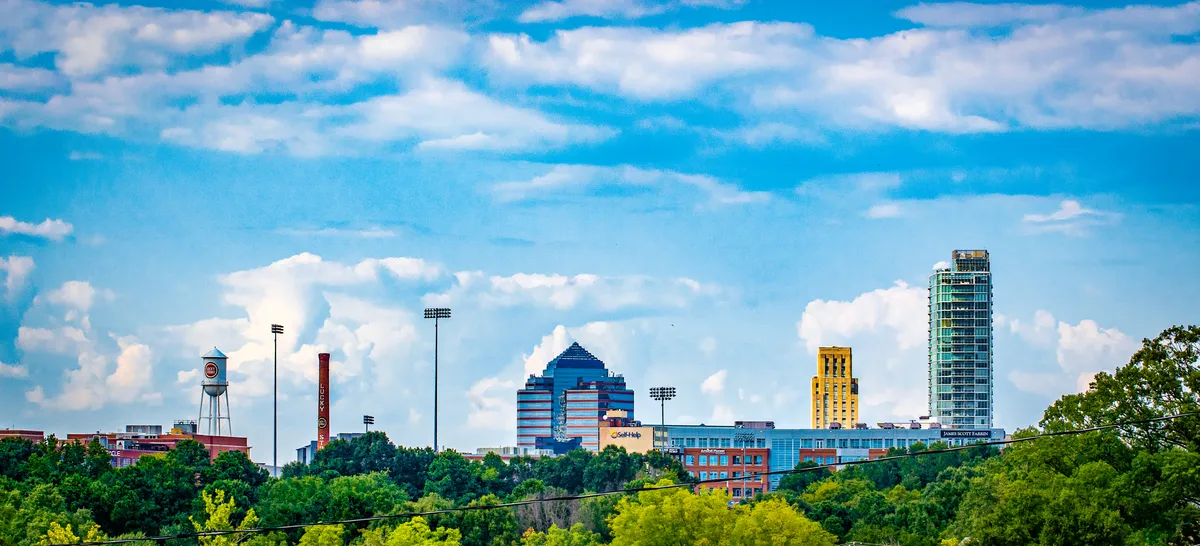
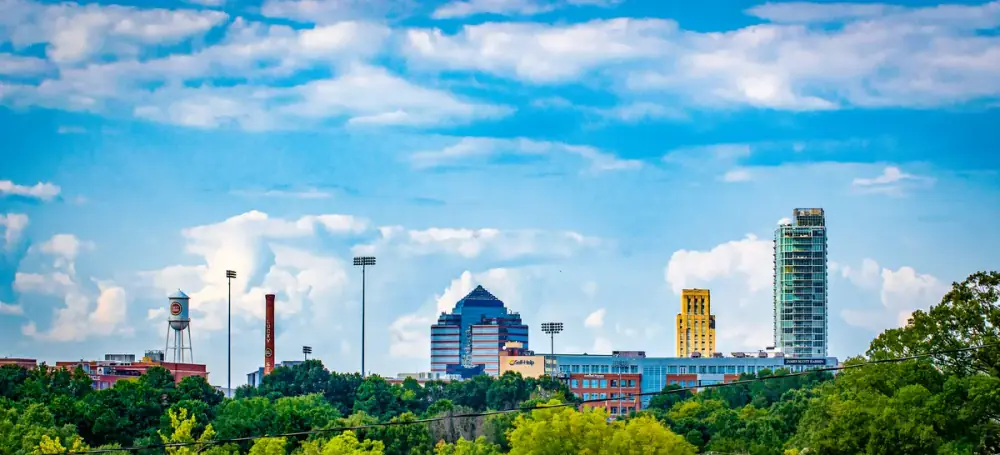
Perf & a11y: code-split routes, cache headers, WCAG contrast fixes
- Route-level React.lazy drops main bundle 645KB → 50KB
- Netlify _headers: 1yr immutable for /assets/*, revalidate HTML
- Defer gtag to idle so it doesn't block LCP
- Compress city heroes (~50% smaller) and shrink pexels hero w=1920 → w=1200 with fetchPriority high
- Darken burnt-orange / deep-orange to pass WCAG AA on white text
- Fix translucent breadcrumb bg and text-cream/60 that failed contrast (2.03:1)
- Swap text-burnt-orange → text-deep-orange on light-bg links (was 4.15, needs 4.5)
- Replace bg-white/20 tel CTA with solid-border variant
- Vite: sourcemap: 'hidden' so BP audit passes without leaking maps
- Drop the inline-css step (caused unused-css-rules flags) — ship external CSS
- Add throwaway scripts for compression and lighthouse summary/detail

diff --git a/src/App.tsx b/src/App.tsx
@@ -1,24 +1,28 @@
+import { lazy, Suspense } from 'react';
 import { BrowserRouter as Router, Routes, Route, Navigate } from 'react-router-dom';
 import { usePageTracking } from './hooks/usePageTracking';
 import { useScrollToTop } from './hooks/useScrollToTop';
 import Header from './components/Header';
 import Footer from './components/Footer';
+
+// Homepage is eagerly imported so the above-fold hero renders without a chunk round-trip.
 import HomePage from './pages/HomePage';
-import ServicesPage from './pages/ServicesPage';
-import TestimonialsPage from './pages/TestimonialsPage';
-import AboutPage from './pages/AboutPage';
-import TeamPage from './pages/TeamPage';
-import OurWorkPage from './pages/OurWorkPage';
-import BlogPage from './pages/BlogPage';
-import BlogPostPage from './pages/BlogPostPage';
-import FreeWebsitePlanPage from './pages/FreeWebsitePlanPage';
-import PricingPage from './pages/PricingPage';
-import RaleighPage from './pages/RaleighPage';
-import ServiceLandingPage from './pages/ServiceLandingPage';
-import CityLandingPage from './pages/CityLandingPage';
-import NotFoundPage from './pages/NotFoundPage';
-import IndustryPage from './pages/IndustryPage';
-import ServiceLocationPage2 from './pages/ServiceLocationPage2';
+
+const ServicesPage = lazy(() => import('./pages/ServicesPage'));
+const TestimonialsPage = lazy(() => import('./pages/TestimonialsPage'));
+const AboutPage = lazy(() => import('./pages/AboutPage'));
+const TeamPage = lazy(() => import('./pages/TeamPage'));
+const OurWorkPage = lazy(() => import('./pages/OurWorkPage'));
+const BlogPage = lazy(() => import('./pages/BlogPage'));
+const BlogPostPage = lazy(() => import('./pages/BlogPostPage'));
+const FreeWebsitePlanPage = lazy(() => import('./pages/FreeWebsitePlanPage'));
+const PricingPage = lazy(() => import('./pages/PricingPage'));
+const RaleighPage = lazy(() => import('./pages/RaleighPage'));
+const ServiceLandingPage = lazy(() => import('./pages/ServiceLandingPage'));
+const CityLandingPage = lazy(() => import('./pages/CityLandingPage'));
+const NotFoundPage = lazy(() => import('./pages/NotFoundPage'));
+const IndustryPage = lazy(() => import('./pages/IndustryPage'));
+const ServiceLocationPage2 = lazy(() => import('./pages/ServiceLocationPage2'));
 
 function PageTracker() {
   usePageTracking();
@@ -30,6 +34,7 @@ function App() {
   return (
     <Router>
       <PageTracker />
+      <Suspense fallback={<div className="min-h-screen" />}>
       <Routes>
         {/* Landing page route without header/footer for maximum conversions */}
         <Route path="/free-website-plan" element={<FreeWebsitePlanPage />} />
@@ -190,6 +195,7 @@ function App() {
           }
         />
       </Routes>
+      </Suspense>
     </Router>
   );
 }

diff --git a/src/pages/ServiceLocationPage2.tsx b/src/pages/ServiceLocationPage2.tsx
@@ -68,9 +68,9 @@ export default function ServiceLocationPage2() {
 
       <div className="pt-20">
         {/* Breadcrumb */}
-        <div className="bg-navy-blue/50 border-b border-white/10">
+        <div className="bg-dark-navy border-b border-white/10">
           <div className="container mx-auto px-4 sm:px-6 lg:px-8 py-3">
-            <nav className="flex items-center gap-2 text-sm text-cream/60 flex-wrap" aria-label="Breadcrumb">
+            <nav className="flex items-center gap-2 text-sm text-slate-300 flex-wrap" aria-label="Breadcrumb">
               <Link to="/" className="hover:text-white transition-colors">Home</Link>
               <ChevronRight size={14} />
               <Link to={`/${page.industryParentSlug}`} className="hover:text-white transition-colors">
@@ -188,7 +188,7 @@ export default function ServiceLocationPage2() {
                 </p>
                 <Link
                   to={`/${page.industryParentSlug}`}
-                  className="inline-flex items-center gap-2 text-burnt-orange font-semibold hover:text-deep-orange transition-colors"
+                  className="inline-flex items-center gap-2 text-deep-orange font-semibold hover:text-burnt-orange transition-colors"
                 >
                   {page.industry} {page.service} — How We Do It
                   <ArrowRight size={18} />
@@ -246,7 +246,7 @@ export default function ServiceLocationPage2() {
             <div className="text-center mt-10">
               <Link
                 to={`/${page.locationParentSlug}`}
-                className="inline-flex items-center gap-2 text-burnt-orange font-semibold hover:text-deep-orange transition-colors"
+                className="inline-flex items-center gap-2 text-deep-orange font-semibold hover:text-burnt-orange transition-colors"
               >
                 <MapPin size={18} />
                 View all services in {page.city}
@@ -316,7 +316,7 @@ export default function ServiceLocationPage2() {
               </Link>
               <a
                 href={`tel:${BUSINESS.phoneTel}`}
-                className="inline-flex items-center justify-center gap-2 bg-white/20 border border-white/30 text-white px-8 py-4 rounded-xl font-bold text-lg hover:bg-white/30 transition-all"
+                className="inline-flex items-center justify-center gap-2 border-2 border-white text-white px-8 py-4 rounded-xl font-bold text-lg hover:bg-white hover:text-burnt-orange transition-all"
               >
                 Call {BUSINESS.phoneDisplay}
               </a>

diff --git a/src/pages/IndustryPage.tsx b/src/pages/IndustryPage.tsx
@@ -65,9 +65,9 @@ export default function IndustryPage() {
 
       <div className="pt-20">
         {/* Breadcrumb — industry-silo aware */}
-        <div className="bg-navy-blue/50 border-b border-white/10">
+        <div className="bg-dark-navy border-b border-white/10">
           <div className="container mx-auto px-4 sm:px-6 lg:px-8 py-3">
-            <nav className="flex items-center gap-2 text-sm text-cream/60" aria-label="Breadcrumb">
+            <nav className="flex items-center gap-2 text-sm text-slate-300" aria-label="Breadcrumb">
               <Link to="/" className="hover:text-white transition-colors">Home</Link>
               {page.slug.includes('/') && (() => {
                 const industry = page.slug.split('/')[0];
@@ -109,7 +109,7 @@ export default function IndustryPage() {
                 </Link>
                 <a
                   href={`tel:${BUSINESS.phoneTel}`}
-                  className="inline-flex items-center justify-center gap-2 bg-white/10 border border-white/20 text-white px-8 py-4 rounded-xl font-bold text-lg hover:bg-white/20 transition-all"
+                  className="inline-flex items-center justify-center gap-2 border-2 border-white text-white px-8 py-4 rounded-xl font-bold text-lg hover:bg-white hover:text-navy-blue transition-all"
                 >
                   Call {BUSINESS.phoneDisplay}
                 </a>
@@ -248,7 +248,7 @@ export default function IndustryPage() {
               </Link>
               <a
                 href={`tel:${BUSINESS.phoneTel}`}
-                className="inline-flex items-center justify-center gap-2 bg-white/20 border border-white/30 text-white px-8 py-4 rounded-xl font-bold text-lg hover:bg-white/30 transition-all"
+                className="inline-flex items-center justify-center gap-2 border-2 border-white text-white px-8 py-4 rounded-xl font-bold text-lg hover:bg-white hover:text-burnt-orange transition-all"
               >
                 Call {BUSINESS.phoneDisplay}
               </a>

diff --git a/index.html b/index.html
@@ -11,13 +11,23 @@
     <meta name="apple-mobile-web-app-capable" content="yes" />
     <meta name="apple-mobile-web-app-status-bar-style" content="default" />
     <meta name="apple-mobile-web-app-title" content="Figgle Media" />
-    <!-- Google tag (gtag.js) -->
-    <script async src="https://www.googletagmanager.com/gtag/js?id=G-WZKXG2GY6E"></script>
+    <!-- Google tag (gtag.js) — deferred until idle so it doesn't block LCP -->
     <script>
       window.dataLayer = window.dataLayer || [];
       function gtag(){dataLayer.push(arguments);}
       gtag('js', new Date());
       gtag('config', 'G-WZKXG2GY6E');
+      function __loadGtag(){
+        var s = document.createElement('script');
+        s.async = true;
+        s.src = 'https://www.googletagmanager.com/gtag/js?id=G-WZKXG2GY6E';
+        document.head.appendChild(s);
+      }
+      if ('requestIdleCallback' in window) {
+        requestIdleCallback(__loadGtag, { timeout: 4000 });
+      } else {
+        window.addEventListener('load', function(){ setTimeout(__loadGtag, 2000); });
+      }
     </script>
     <title>Figgle Media — Web Design & SEO for North Carolina Contractors</title>
     <meta

diff --git a/src/pages/LocationHubPage.tsx b/src/pages/LocationHubPage.tsx
@@ -55,9 +55,9 @@ export default function LocationHubPage() {
 
       <div className="pt-20">
         {/* Breadcrumb */}
-        <div className="bg-navy-blue/50 border-b border-white/10">
+        <div className="bg-dark-navy border-b border-white/10">
           <div className="container mx-auto px-4 sm:px-6 lg:px-8 py-3">
-            <nav className="flex items-center gap-2 text-sm text-cream/60" aria-label="Breadcrumb">
+            <nav className="flex items-center gap-2 text-sm text-slate-300" aria-label="Breadcrumb">
               <Link to="/" className="hover:text-white transition-colors">Home</Link>
               <ChevronRight size={14} />
               <span className="text-white">{page.city} Web Design</span>

diff --git a/src/components/ui/Hero.tsx b/src/components/ui/Hero.tsx
@@ -19,11 +19,12 @@ export default function Hero() {
       {/* Background image with overlay */}
       <div className="absolute inset-0">
         <img
-          src="https://images.pexels.com/photos/4311990/pexels-photo-4311990.jpeg?auto=compress&cs=tinysrgb&w=1920"
+          src="https://images.pexels.com/photos/4311990/pexels-photo-4311990.jpeg?auto=compress&cs=tinysrgb&w=1200"
           alt=""
           className="w-full h-full object-cover opacity-30"
           loading="eager"
           decoding="async"
+          fetchPriority="high"
         />
         <div className="absolute inset-0 bg-gradient-to-br from-navy-blue/95 via-navy-blue/85 to-navy/80"></div>
       </div>

diff --git a/tailwind.config.js b/tailwind.config.js
@@ -5,8 +5,9 @@ export default {
     extend: {
       colors: {
         // ── BRAND (kept) ───────────────────────────────
-        'burnt-orange': '#FF6B2C',
-        'deep-orange': '#E85D04',
+        // Darkened from #FF6B2C / #E85D04 so white text meets WCAG AA (≥4.5:1)
+        'burnt-orange': '#C94818',
+        'deep-orange': '#A83A00',
         'navy-blue': '#0A1628',
         'dark-navy': '#060d1a',
         'navy': '#1a2947',

diff --git a/src/components/Footer.tsx b/src/components/Footer.tsx
@@ -126,7 +126,7 @@ export default function Footer() {
                 </li>
               ))}
               <li>
-                <Link to="/#cities" className="text-teal hover:text-cream transition-colors text-sm font-semibold">
+                <Link to="/#cities" className="text-light-teal hover:text-cream transition-colors text-sm font-semibold">
                   View all 8 cities →
                 </Link>
               </li>

diff --git a/vite.config.ts b/vite.config.ts
@@ -9,6 +9,7 @@ export default defineConfig({
   },
   build: {
     cssCodeSplit: true,
+    sourcemap: 'hidden',
     rollupOptions: {
       output: {
         manualChunks(id) {
